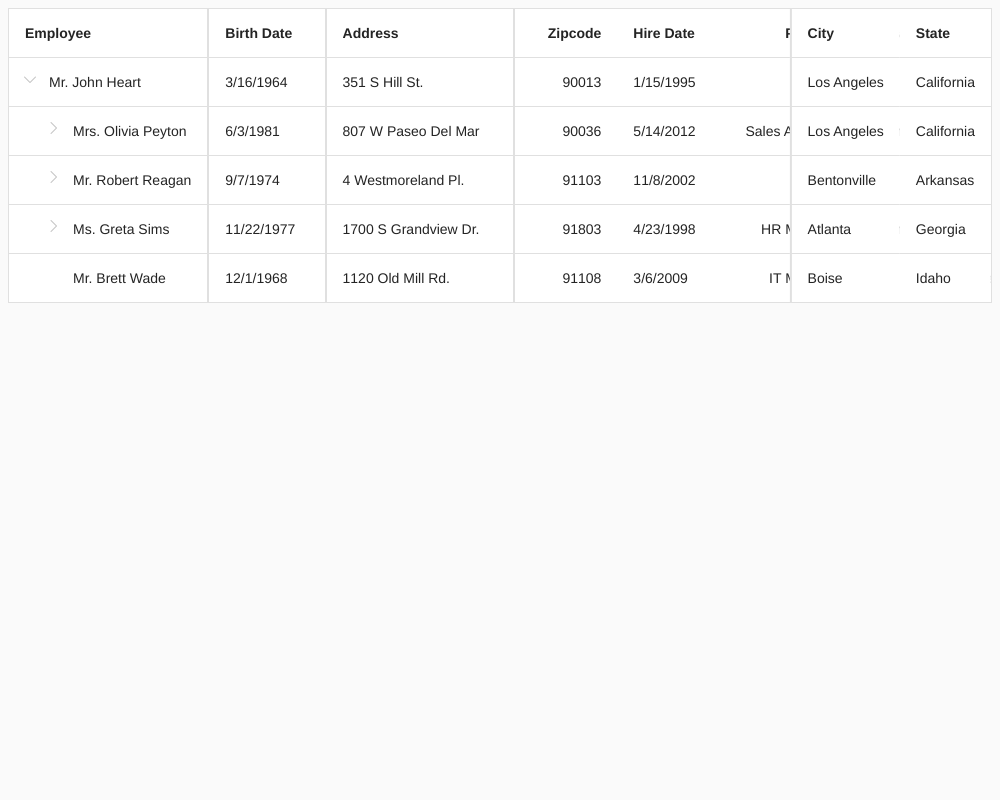
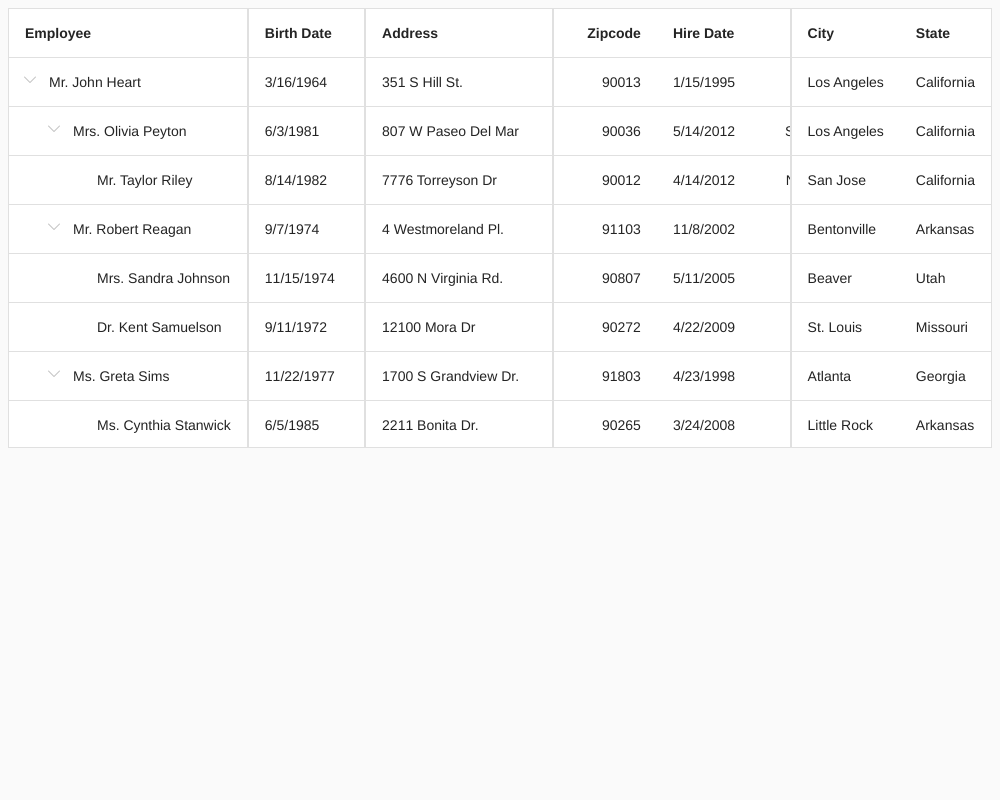
📌 Sticky columns: Set autoExpandAll to TreeList demos (#28366)

diff --git a/apps/demos/Demos/TreeList/ColumnFixing/React/App.tsx b/apps/demos/Demos/TreeList/ColumnFixing/React/App.tsx
@@ -2,8 +2,6 @@ import React from 'react';
 import { TreeList, Column, ColumnFixing } from 'devextreme-react/tree-list';
 import { Employee, employees } from './data.ts';
 
-const expandedRowKeys = [1];
-
 const calculateCellValue = (data: Employee) => [data.Title, data.FirstName, data.LastName].join(' ');
 
 const App = () => (
@@ -15,7 +13,7 @@ const App = () => (
     columnAutoWidth={true}
     showBorders={true}
     showRowLines={true}
-    defaultExpandedRowKeys={expandedRowKeys}
+    autoExpandAll={true}
   >
     <ColumnFixing enabled={true} />
     <Column

diff --git a/apps/demos/Demos/TreeList/Reordering/React/App.tsx b/apps/demos/Demos/TreeList/Reordering/React/App.tsx
@@ -2,8 +2,6 @@ import React from 'react';
 import { TreeList, Column, ColumnFixing } from 'devextreme-react/tree-list';
 import { Employee, employees } from './data.ts';
 
-const expandedRowKeys = [1];
-
 const calculateCellValue = (data: Employee) => [data.Title, data.FirstName, data.LastName].join(' ');
 
 const App = () => (
@@ -16,7 +14,7 @@ const App = () => (
     columnAutoWidth={true}
     showBorders={true}
     showRowLines={true}
-    defaultExpandedRowKeys={expandedRowKeys}
+    autoExpandAll={true}
   >
     <ColumnFixing enabled={true} />
     <Column

diff --git a/apps/demos/Demos/TreeList/ColumnFixing/ReactJs/App.js b/apps/demos/Demos/TreeList/ColumnFixing/ReactJs/App.js
@@ -2,7 +2,6 @@ import React from 'react';
 import { TreeList, Column, ColumnFixing } from 'devextreme-react/tree-list';
 import { employees } from './data.js';
 
-const expandedRowKeys = [1];
 const calculateCellValue = (data) => [data.Title, data.FirstName, data.LastName].join(' ');
 const App = () => (
   <TreeList
@@ -13,7 +12,7 @@ const App = () => (
     columnAutoWidth={true}
     showBorders={true}
     showRowLines={true}
-    defaultExpandedRowKeys={expandedRowKeys}
+    autoExpandAll={true}
   >
     <ColumnFixing enabled={true} />
     <Column

diff --git a/apps/demos/Demos/TreeList/Reordering/ReactJs/App.js b/apps/demos/Demos/TreeList/Reordering/ReactJs/App.js
@@ -2,7 +2,6 @@ import React from 'react';
 import { TreeList, Column, ColumnFixing } from 'devextreme-react/tree-list';
 import { employees } from './data.js';
 
-const expandedRowKeys = [1];
 const calculateCellValue = (data) => [data.Title, data.FirstName, data.LastName].join(' ');
 const App = () => (
   <TreeList
@@ -14,7 +13,7 @@ const App = () => (
     columnAutoWidth={true}
     showBorders={true}
     showRowLines={true}
-    defaultExpandedRowKeys={expandedRowKeys}
+    autoExpandAll={true}
   >
     <ColumnFixing enabled={true} />
     <Column

diff --git a/apps/demos/Demos/TreeList/ColumnFixing/Vue/App.vue b/apps/demos/Demos/TreeList/ColumnFixing/Vue/App.vue
@@ -8,7 +8,7 @@
       :column-auto-width="true"
       :show-borders="true"
       :show-row-lines="true"
-      :expanded-row-keys="expandedRowKeys"
+      :auto-expand-all="true"
     >
       <DxColumnFixing :enabled="true"/>
       <DxColumn
@@ -56,7 +56,6 @@
 import { DxTreeList, DxColumn, DxColumnFixing } from 'devextreme-vue/tree-list';
 import { Employee, employees } from './data.ts';
 
-const expandedRowKeys = [1];
 function calculateCellValue(data: Employee) {
   return [data.Title, data.FirstName, data.LastName].join(' ');
 }

diff --git a/apps/demos/Demos/TreeList/Reordering/Vue/App.vue b/apps/demos/Demos/TreeList/Reordering/Vue/App.vue
@@ -9,7 +9,7 @@
       :column-auto-width="true"
       :show-borders="true"
       :show-row-lines="true"
-      :expanded-row-keys="expandedRowKeys"
+      :auto-expand-all="true"
     >
       <DxColumnFixing :enabled="true"/>
       <DxColumn
@@ -58,7 +58,6 @@
 import { DxTreeList, DxColumn, DxColumnFixing } from 'devextreme-vue/tree-list';
 import { Employee, employees } from './data.ts';
 
-const expandedRowKeys = [1];
 function calculateCellValue(data: Employee) {
   return [data.Title, data.FirstName, data.LastName].join(' ');
 }

diff --git a/apps/demos/Demos/TreeList/Reordering/Angular/app/app.component.html b/apps/demos/Demos/TreeList/Reordering/Angular/app/app.component.html
@@ -7,7 +7,7 @@
   [columnAutoWidth]="true"
   [showBorders]="true"
   [showRowLines]="true"
-  [expandedRowKeys]="[1]"
+  [autoExpandAll]="true"
 >
   <dxo-column-fixing [enabled]="true"></dxo-column-fixing>
   <dxi-column

diff --git a/apps/demos/Demos/TreeList/Reordering/jQuery/index.js b/apps/demos/Demos/TreeList/Reordering/jQuery/index.js
@@ -10,7 +10,7 @@ $(() => {
       enabled: true,
     },
     showRowLines: true,
-    expandedRowKeys: [1],
+    autoExpandAll: true,
     columns: [{
       caption: 'Employee',
       fixed: true,

diff --git a/apps/demos/Demos/TreeList/ColumnFixing/Angular/app/app.component.html b/apps/demos/Demos/TreeList/ColumnFixing/Angular/app/app.component.html
@@ -4,7 +4,7 @@
   keyExpr="ID"
   parentIdExpr="Head_ID"
   [columnAutoWidth]="true"
-  [expandedRowKeys]="[1]"
+  [autoExpandAll]="true"
   [showBorders]="true"
   [showRowLines]="true"
 >

diff --git a/apps/demos/Demos/TreeList/ColumnFixing/jQuery/index.js b/apps/demos/Demos/TreeList/ColumnFixing/jQuery/index.js
@@ -9,7 +9,7 @@ $(() => {
       enabled: true,
     },
     showRowLines: true,
-    expandedRowKeys: [1],
+    autoExpandAll: true,
     columns: [
       {
         caption: 'Employee',
